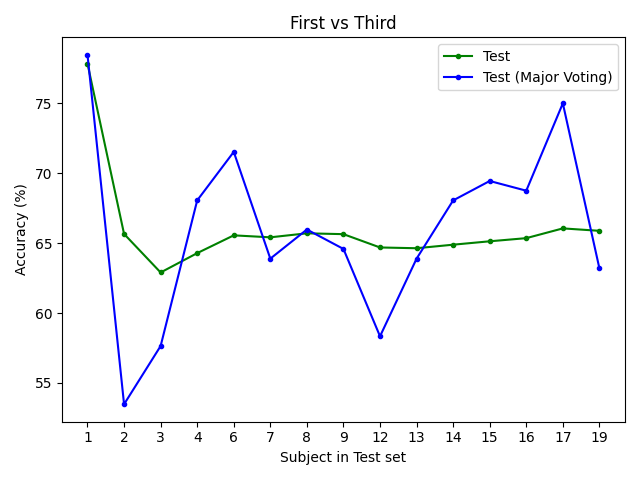
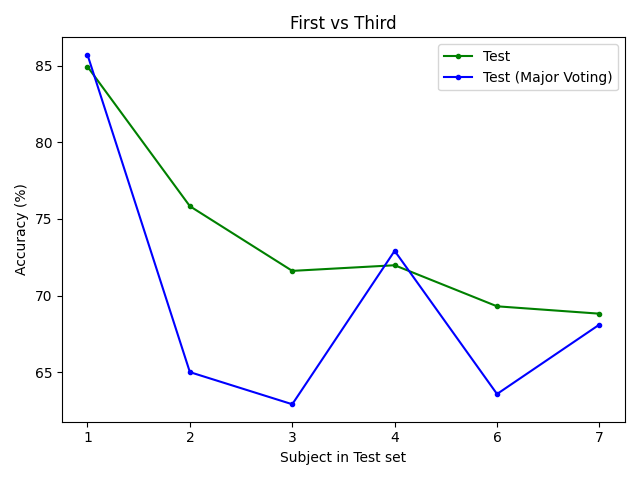
Updated

diff --git a/plot_test_acc.py b/plot_test_acc.py
@@ -4,8 +4,10 @@ import matplotlib.pyplot as plt
 from utils.config import Config
 from numpy import array
 import pandas as pd
+import numpy as np
 
 config = Config()
+config.all_subjects = np.array([1,2,3,4,6,7])
 color_codes = ['-g.', '-b.', '-r.']
 if config.apply_valid_set:
    datasets = ['train','test','valid']
